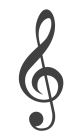
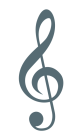
Color palette

Changed region(s): [[0.2195, 0.0571, 0.7805, 0.9429]]

diff --git a/src/code/pentagram.js b/src/code/pentagram.js
@@ -1,6 +1,11 @@
 import {game} from './game.js';
 import {noteBase} from './noteBase.js';
 
+const DEFAULT_COLOR = '#566B73';
+const HINT_COLOR = '#566B73';
+const SHADOW_COLOR = '#566B73';
+const PAUSE_COLOR = '#E11347';
+
 export const pentagram = {
     margin: 25,
     clefSpace: 80,
@@ -56,7 +61,7 @@ export const pentagram = {
         ctx.shadowBlur = 5;
         ctx.shadowOffsetX = 3;
         ctx.shadowOffsetY = 3;
-        ctx.shadowColor = '#A0A0A0';
+        ctx.shadowColor = SHADOW_COLOR;
         ctx.fillStyle = noteColor;
         ctx.strokeStyle = noteColor;
         ctx.save();
@@ -90,13 +95,12 @@ export const pentagram = {
     },
 
     drawClef(ctx) {
-        let clefFontSize = this.height / 2;
         ctx.drawImage(this.gClefImage, 0, 10);
     },
 
-    drawHint(ctx, opacity, hint, color = '#909090'){
+    drawHint(ctx, opacity, hint, color = HINT_COLOR){
         ctx.save();
-            ctx.font = `bold 36px Arial`;
+            ctx.font = `bold 32px Oswald`;
             ctx.fillStyle = color;
             ctx.globalAlpha = opacity;
             ctx.textAlign = "center";
@@ -113,16 +117,16 @@ export const pentagram = {
     },
 
     drawPaused(ctx) {
-        this.drawHint(ctx, 1, 'II', '#A07070');
+        this.drawHint(ctx, 1, 'II', PAUSE_COLOR);
     },
 
     drawShootFallout(ctx){
-        let lbl = game.proposedValue === -1 ? 'MISS' : noteBase.noteToSymbol(game.proposedValue);
-        this.drawHint(ctx, game.shootFallout, lbl);
-
         if (game.proposedValue === -1){
+            this.drawHint(ctx, game.shootFallout, 'MISS', "#E11347");
             return;
         }
+
+        this.drawHint(ctx, game.shootFallout,  noteBase.noteToSymbol(game.proposedValue));
 
         ctx.save();      
             ctx.lineWidth = 4;
@@ -132,7 +136,7 @@ export const pentagram = {
 
             while (note <= noteBase.VISIBLE_MIDI_CODE_MAX){
                 if (note >= noteBase.VISIBLE_MIDI_CODE_MIN){
-                    ctx.strokeStyle = (note === game.proposedValue) ? "#f05000": "#fd0";
+                    ctx.strokeStyle = (note === game.proposedValue) ? "#E11347": "#E4847D";
                     const y = this.calcNoteY(note);
                     this.drawLine(ctx, y);
                 }
@@ -146,8 +150,8 @@ export const pentagram = {
     draw(ctx) {
         this.resize();
         ctx.clearRect(0, 0, this.width, this.height);
-        ctx.strokeStyle = '#505050';
-        ctx.fillStyle = '#505050';
+        ctx.strokeStyle = DEFAULT_COLOR;
+        ctx.fillStyle = DEFAULT_COLOR;
         this.drawClef(ctx);
 
         for (let i = 0; i < this.lineNumber; i++) {

diff --git a/src/style/style.scss b/src/style/style.scss
@@ -1,3 +1,5 @@
+@import 'common';
+
 @media only screen and (max-width: 720px) {
   #score_canvas{
     width: 100%;
@@ -23,7 +25,8 @@
 body{
   text-align: center;
   font-family: 'Oswald', sans-serif;
-  background-color: #ffffff;
+  background-color: $COLOR1;
+  color: #566B73;
 }
 
 div.dataBlock{
@@ -35,14 +38,12 @@ div.dataBlock{
 #dashboard{
   padding: 15px;
   margin: auto;
-  background: linear-gradient(-30deg,#ffff,rgb(202, 202, 202));
+  background: linear-gradient(-30deg, $COLOR2, $COLOR1);
 }
 
 h1{
-  color: #906060;
-  // background: linear-gradient(180deg,#555,#909090);
+  color: $COLOR3;
   padding: 5px;
-  // text-shadow: 2px 2px black;
 }
 
 %badge{
@@ -53,7 +54,7 @@ h1{
   
   // float: left;
   border-radius: 5px;
-  box-shadow:inset 0 1px 0px #fff,inset 0 -1px 0px #fff,inset 1px 0px 0px #fff,inset -1px 0px 0px #fff,0 2px 3px rgba(0,0,0,0.7); 
+  box-shadow:inset 0 1px 0px $COLOR1,inset 0 -1px 0px $COLOR1,inset 1px 0px 0px $COLOR1,inset -1px 0px 0px $COLOR1,0 2px 3px $COLOR3; 
 }
 
 .beginner{
@@ -65,8 +66,8 @@ h1{
 
 .topic{
   @extend %badge;
-  background-color: #DDD;
-  color: rgb(59, 59, 59);
+  background-color: $COLOR4;
+  color: $COLOR1;
 }
 
 footer {
@@ -74,7 +75,7 @@ footer {
   left: 0;
   bottom: 0;
   width: 100%;
-  background-color: black;
-  color: #999;
+  background-color: $COLOR3;
+  color: $COLOR1;
   text-align: center;
 }

diff --git a/src/style/pianoKeyboard.scss b/src/style/pianoKeyboard.scss
@@ -1,3 +1,5 @@
+@import 'common';
+
 $keyWidth: 44px;
 $blackKeyWidth: $keyWidth * 0.6;
 $keyHeight: 140px;
@@ -17,7 +19,6 @@ $keyPressedFactor: 0.96;
   /* Piano Wrapper */ 
   #p-wrapper { 
     position:relative; 
-    // background-color: #555;
     // background: linear-gradient(-0deg,#555,rgb(202, 202, 202));
   } 
   

diff --git a/src/style/_common.scss b/src/style/_common.scss
@@ -1,0 +1,5 @@
+$COLOR1: #FAF7F3;
+$COLOR2: #ACB6BD;
+$COLOR3: #566B73;
+$COLOR4: #E4847D;
+$COLOR5: #E11347;
